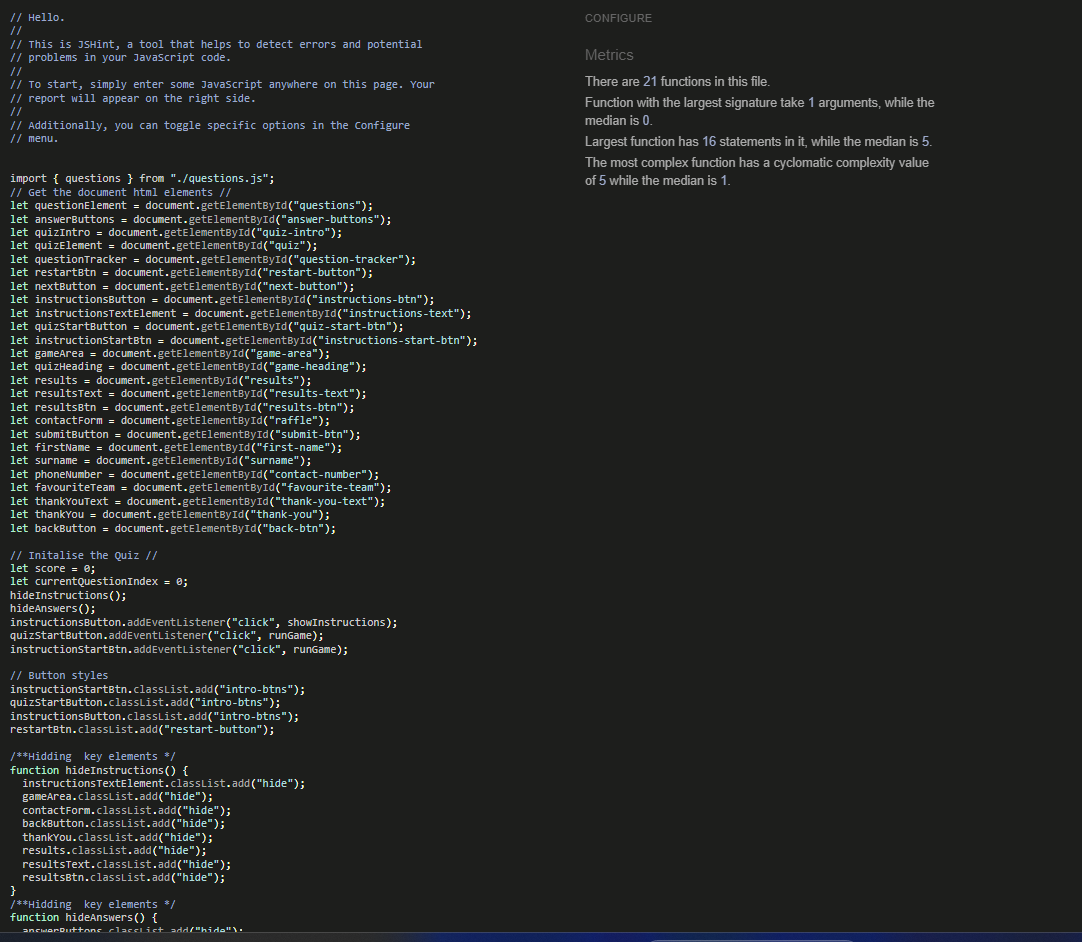
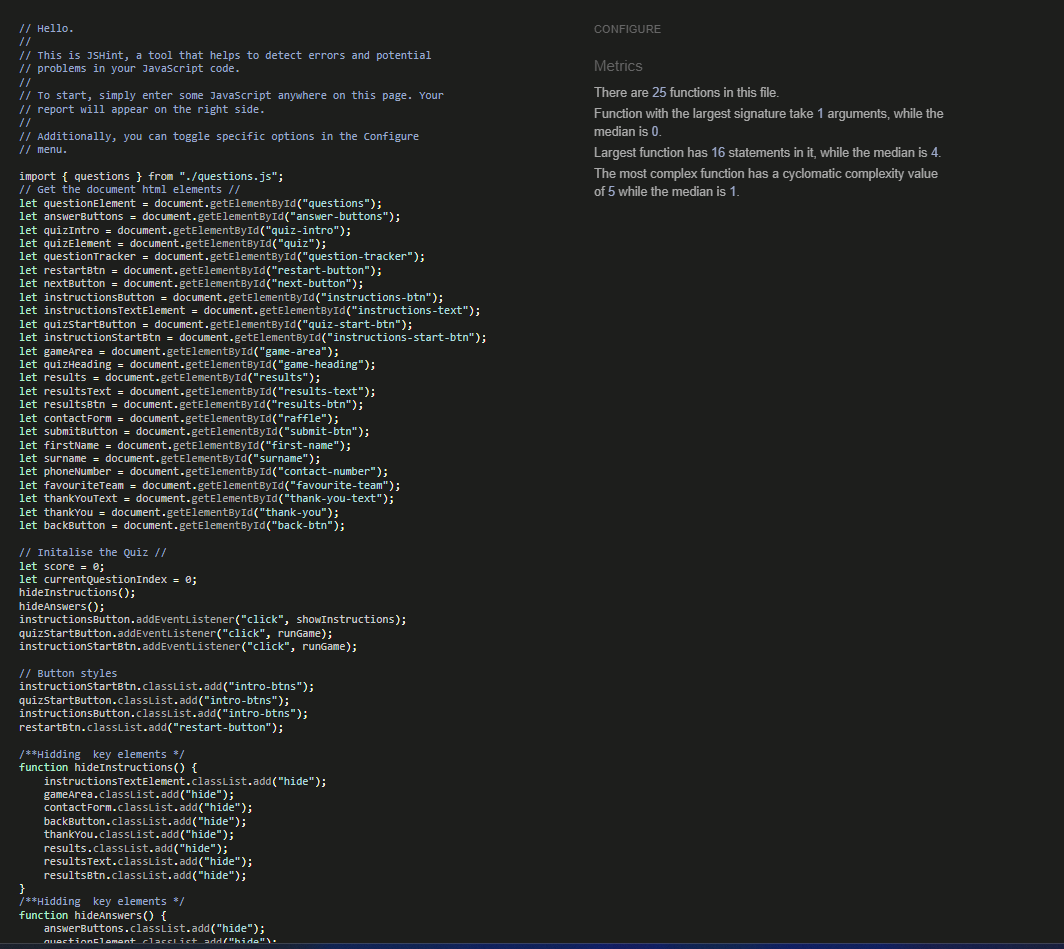
Added validation reports, wireframes, rewrote instructions text

Changed region(s): [[0.0, 0.0, 1.0, 1.0], [0.5273, 0.0, 0.8994, 0.2155]]

diff --git a/index.html b/index.html
@@ -34,7 +34,6 @@
       sizes="16x16"
       href="assets/favicon/favicon-16x16.png"
     />
-    <link rel="manifest" href="assets/favicon/site.webmanifest" />
     <!--Style sheet-->
     <link rel="stylesheet" href="assets/css/style.css" />
   </head>
@@ -100,7 +99,9 @@
 
           <p>Step 1: Click the start quiz button below.</p>
 
-          <p>Step 2: Read the question and select one of the four answers</p>
+          <p>Step 2: Read the question and select one of the four answers,if you get the answer 
+            correct, your answer will highlight in green, otherwise your answer will highliight in red. 
+          </p>
 
           <p>
             Step 3: Press the next button and answer all 10 questions to find

diff --git a/TESTING.md b/TESTING.md
@@ -36,13 +36,17 @@
 
 #### Index validation
 
+![Index Page validation](docs/wireframes/quiz-html-validation.png)
+
 #### Error 404 validation
 
 ### CSS Validation
 
+![CSS quiz validation](docs/wireframes/css-validator-quiz.png)
+
 ### JavaScript Validation
 
-
+![JavaScript quiz validation](docs/wireframes/javascript-validator.png)
 
 ### Solved Bugs
 
